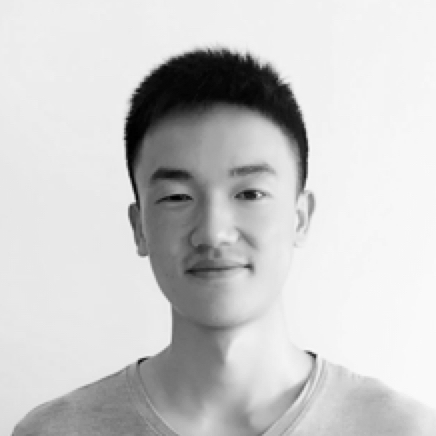
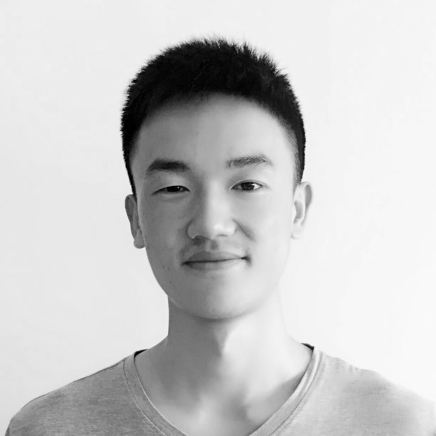
替换图片

diff --git a/public/index.html b/public/index.html
@@ -41,7 +41,7 @@
                     <li><a class="" href="#team">团队</a></li>
                     <li><a class="" href="#case">案例</a></li>
                     <li><a href="http://blog.boostfield.com">博客</a></li>
-                    <li><a class="" href="#contact">加入我们</a></li>
+
 
                 </ul>
             </div>
@@ -51,6 +51,10 @@
     </nav>
 </header>
 <body class="homepage">
+    <div class="top-container">
+
+    </div>
+
     <div class="service container">
         <img src="assets/images/img_title_service.png" class="img img-responsive img-title center-block" width="200"/>
         <div class="row">
@@ -97,6 +101,7 @@
             </div>
         </div>
     </div>
+
     <div class="team" id="team">
         <div class="container">
             <img src="assets/images/img_title_team.png" width="200" class="img img-responsive img-title center-block"/>
@@ -113,25 +118,25 @@
                 </div>
 
                 <div class="member col-lg-2 col-md-3 col-sm-6 col-xs-12">
-                    <img src="assets/images/吴立军.jpg" class="img img-responsive" width="218">
+                    <img src="assets/images/赖永炫.jpg" class="img img-responsive" width="218">
                     <p class="name">赖永炫</p>
                     <p class="occupation">技术总监</p>
                 </div>
 
                 <div class="member col-lg-2 col-md-3 col-sm-6 col-xs-12">
-                    <img src="assets/images/吴立军.jpg" class="img img-responsive" width="218">
+                    <img src="assets/images/陈庆鹏.jpg" class="img img-responsive" width="218">
                     <p class="name">陈庆鹏</p>
                     <p class="occupation">全栈工程师</p>
                 </div>
 
                 <div class="member col-lg-2 col-md-3 col-sm-6 col-xs-12">
-                    <img src="assets/images/吴立军.jpg" class="img img-responsive" width="218">
+                    <img src="assets/images/邓小丹.jpg" class="img img-responsive" width="218">
                     <p class="name">邓小丹</p>
                     <p class="occupation">设计师</p>
                 </div>
 
                 <div class="member col-lg-2 col-md-3 col-sm-6 col-xs-12">
-                    <img src="assets/images/吴立军.jpg" class="img img-responsive" width="218">
+                    <img src="assets/images/丘开宇.jpg" class="img img-responsive" width="218">
                     <p class="name">丘开宇</p>
                     <p class="occupation">iOS&Web工程师</p>
                 </div>
@@ -141,34 +146,40 @@
                 <div class="row text-center">
 
                     <div class="member col-lg-2 col-md-3 col-sm-6 col-xs-12">
-                        <img src="assets/images/吴立军.jpg" class="img img-responsive" width="218">
+                        <img src="assets/images/申明远.jpg" class="img img-responsive" width="218">
                         <p class="name">申明远</p>
                         <p class="occupation">服务器&测试工程师</p>
                     </div>
 
                     <div class="member col-lg-2 col-md-3 col-sm-6 col-xs-12">
-                        <img src="assets/images/吴立军.jpg" class="img img-responsive" width="218">
+                        <img src="assets/images/李朝阳.jpg" class="img img-responsive" width="218">
                         <p class="name">李朝阳</p>
                         <p class="occupation">Android&Web工程师</p>
                     </div>
 
+                    <div class="member col-lg-2 col-md-3 col-sm-6 col-xs-12">
+                        <img src="assets/images/沈阳.jpg" class="img img-responsive" width="218">
+                        <p class="name">沈阳</p>
+                        <p class="occupation">商务拓展</p>
+                    </div>
                 </div>
 
 
         </div>
 
     </div>
+
     <div class="case">
         <div class="container-fluid text-center">
             <img src="assets/images/img_title_case.png" width="200" class="img img-responsive img-title center-block"/>
             <div class="frame" id="sly-center">
                 <ul class="slidee">
-                    <li><img src="assets/images/img_office_1.jpg" width="384"/></li>
-                    <li><img src="assets/images/img_office_2.jpg" width="384"/></li>
-                    <li><img src="assets/images/img_office_3.jpg" width="384"/></li>
-                    <li><img src="assets/images/img_office_4.jpg" width="384"/></li>
-                    <li><img src="assets/images/img_office_5.jpg" width="384"/></li>
-                    <li><img src="assets/images/img_office_6.jpg" width="384"/></li>
+                    <li><img src="assets/images/img_case_jiaju.jpg" width="384"/></li>
+                    <li><img src="assets/images/img_case_jumu.jpg" width="384"/></li>
+                    <li><img src="assets/images/img_case_musicbible.jpg" width="384"/></li>
+                    <li><img src="assets/images/img_case_law.jpg" width="384"/></li>
+                    <li><img src="assets/images/img_case_tapon.jpg" width="384"/></li>
+                    <li><img src="assets/images/img_case_wanxian.jpg" width="384"/></li>
 
                 </ul>
             </div>
@@ -181,6 +192,7 @@
             <button class="btn btn-default" id="btn-all" onclick="location.href='http://blog.boostfield.com/tag/an-li/'">查看全部</button>
         </div>
     </div>
+
     <div class="partner">
         <div class="container">
             <img src="assets/images/img_title_partner.png" width="160" class="img img-responsive img-title center-block"/>
@@ -207,6 +219,7 @@
             </div>
         </div>
     </div>
+
     <div class="footer">
         <div class="container">
             <div class="row">

diff --git a/public/assets/js/main.js b/public/assets/js/main.js
@@ -9,8 +9,8 @@ jQuery(function($) {
             itemNav: 'forceCentered',
             smart: 1,
             activateOn: 'click',
-            mouseDragging: 1,
-            touchDragging: 1,
+            mouseDragging: 0,
+            touchDragging: 0,
             releaseSwing: 1,
             startAt: 2,
 
@@ -28,16 +28,37 @@ jQuery(function($) {
 
         $('#sly-center').sly('on', 'active', function (eventName, itemIndex ) {
 
-            console.log(itemIndex);  // Sly position object
             switch(itemIndex){
                 case 0:
+                    $("#title").hide().text("智能家居").fadeIn();
+                    $("#content").hide().text("H5开发").fadeIn();
                     break;
                 case 1:
-                    $("#title").text("音乐圣经iOS");
+                    $("#title").hide().text("聚募-专注早期创业项目的众筹融资平台").fadeIn();
+                    $("#content").hide().text("Android APP开发").fadeIn();
+                    break;
+                case 2:
+                    $("#title").hide().text("音乐圣经-做古典音乐的百科全书").fadeIn();
+                    $("#content").hide().text("全平台建设").fadeIn();
+                    break;
+                case 3:
+                    $("#title").hide().text("太棒").fadeIn();
+                    $("#content").hide().text("官方网站建设&APP开发").fadeIn();
+                    break;
+                case 4:
+                    $("#title").hide().text("厦门大学法学院").fadeIn();
+                    $("#content").hide().text("官方网站建设").fadeIn();
+                    break;
+                case 5:
+                    $("#title").hide().text("玩鲜").fadeIn();
+                    $("#content").hide().text("iOS&Android开发").fadeIn();
+                    break;
                 default:
                     break;
             }
         });
+
+
         
         //reload sly when window  resizing
         $(window).resize(function(e) {

diff --git a/public/assets/css/main.less b/public/assets/css/main.less
@@ -9,7 +9,7 @@ html {
   font-size: 20px;
 }
 body {
-  font-family: PingFangSC-Regular, Microsoft YaHei;
+  font-family: PingFangSC-Regular, "Noto Sans CJK SC", "Source Han Sans CN", "Microsoft Yahei";
   font-size: 20px;
   padding-top: 139px;
 }
@@ -20,6 +20,7 @@ body {
 .btn.active.focus, .btn.active:focus, .btn.focus, .btn:active.focus, .btn:active:focus, .btn:focus {
   outline: none;
 }
+
 //导航栏
 .navbar-default {
   height: 139px;
@@ -60,6 +61,15 @@ body {
     }
   }
 
+}
+
+//大图
+.top-container {
+  height: 529px;
+  background-image: url(../images/img_top.jpg);
+  background-repeat: no-repeat;
+  background-size: cover;
+  background-position: center;
 }
 
 //业务
@@ -171,7 +181,7 @@ body {
     height: 100%;
   }
 
-  .frame .slidee li.active img {
+  .frame .slidee li.active img{
     box-shadow: 0px 20px 40px 0px rgba(0,0,0,0.20);
   }
 
@@ -180,7 +190,7 @@ body {
     font-size: 1em;
     color: white;
     letter-spacing: 0;
-
+    margin-top: 2em;
   }
   #content {
     text-align: center;
@@ -188,7 +198,7 @@ body {
     font-size: 0.7em;
     color: white;
     letter-spacing: 0;
-
+    margin-top: 0;
   }
   .control-panel {
     img {
@@ -332,9 +342,17 @@ only screen and (max-width: 480px) {
     padding-top: 3em;
     padding-bottom: 3em;
     .member {
+
+    }
+  }
+  //案例
+  .case {
+    .frame .slidee li {
+      width: 100vw;
       img {
-        width: 300;
+        object-fit: cover;
       }
     }
   }
+
 }

diff --git a/public/assets/css/main.css b/public/assets/css/main.css
@@ -2,7 +2,7 @@ html {
   font-size: 20px;
 }
 body {
-  font-family: PingFangSC-Regular, Microsoft YaHei;
+  font-family: PingFangSC-Regular, "Noto Sans CJK SC", "Source Han Sans CN", "Microsoft Yahei";
   font-size: 20px;
   padding-top: 139px;
 }
@@ -53,6 +53,13 @@ body {
 .navbar-default .navbar-nav li a:focus {
   color: #6173F4;
   background-size: 18px 3px;
+}
+.top-container {
+  height: 529px;
+  background-image: url(../images/img_top.jpg);
+  background-repeat: no-repeat;
+  background-size: cover;
+  background-position: center;
 }
 .service {
   padding-top: 5em;
@@ -163,6 +170,7 @@ body {
   font-size: 1em;
   color: white;
   letter-spacing: 0;
+  margin-top: 2em;
 }
 .case #content {
   text-align: center;
@@ -170,6 +178,7 @@ body {
   font-size: 0.7em;
   color: white;
   letter-spacing: 0;
+  margin-top: 0;
 }
 .case .control-panel img {
   width: 57px;
@@ -302,7 +311,10 @@ body {
     padding-top: 3em;
     padding-bottom: 3em;
   }
-  .team .member img {
-    width: 300;
+  .case .frame .slidee li {
+    width: 100vw;
+  }
+  .case .frame .slidee li img {
+    object-fit: cover;
   }
 }
